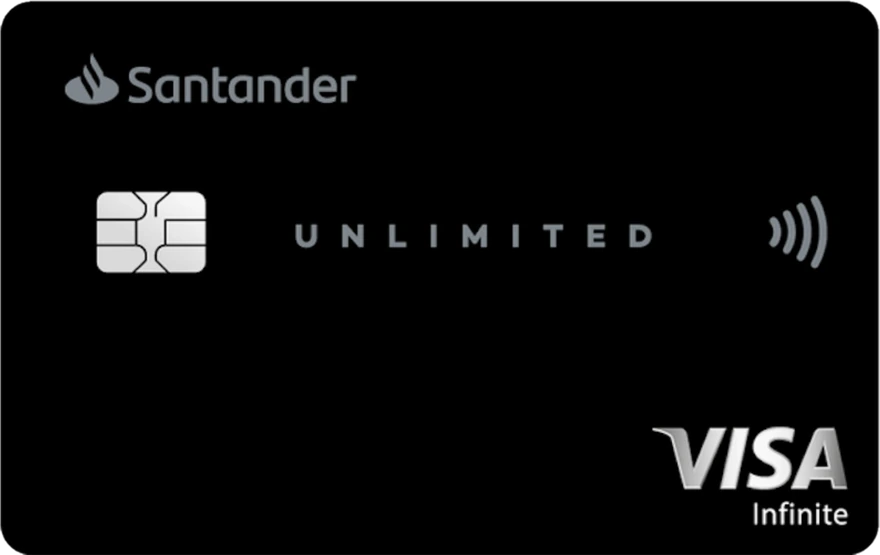
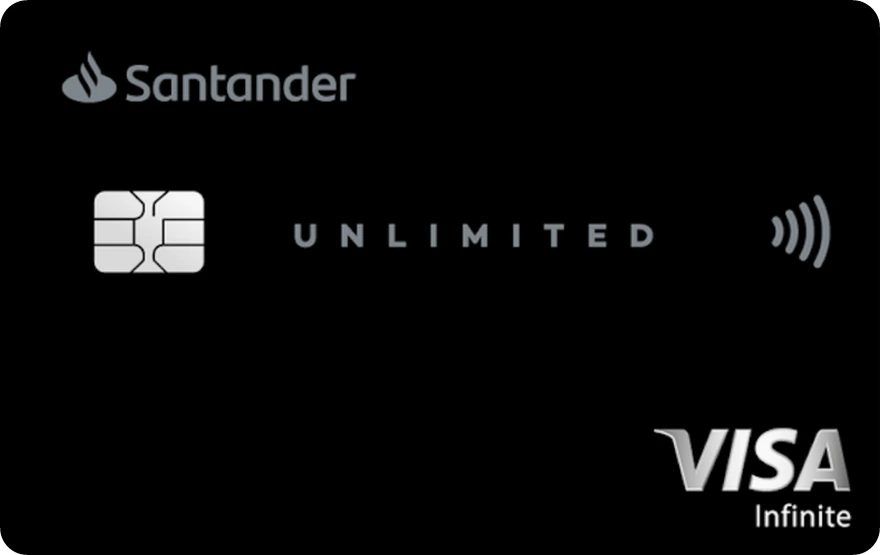
Add files via upload

diff --git a/index.html b/index.html
@@ -10,7 +10,7 @@
 <meta charset="utf-8">
 <script>
 /* abre direto na versão mais nova guardada no aparelho (o iPhone costuma servir a página antiga do cache) */
-(function(){var V='11.1';
+(function(){var V='11.3';
   function c(a,b){a=a.split('.');b=b.split('.');for(var i=0;i<3;i++){var x=+a[i]||0,y=+b[i]||0;if(x!==y)return x>y?1:-1}return 0}
   try{var v=localStorage.getItem('vencimentos.htmlv'),h=localStorage.getItem('vencimentos.html');
     if(v&&h&&c(v,V)>0&&h.indexOf("const VERSION='"+v+"'")>0){document.documentElement.style.visibility='hidden';setTimeout(function(){document.open();document.write(h);document.close()},0)}
@@ -563,7 +563,7 @@ body.so .tabs{backdrop-filter:none;-webkit-backdrop-filter:none}
       <div class="logo"><img data-mk alt=""></div>
       <h1>Sobrou<span class="ex">!</span></h1>
     </div>
-    <div class="hr"><span class="ver" id="ver">v11.1</span><span class="pill">Premium</span></div>
+    <div class="hr"><span class="ver" id="ver">v11.3</span><span class="pill">Premium</span></div>
   </header>
 
   <main>
@@ -663,7 +663,7 @@ body.so .tabs{backdrop-filter:none;-webkit-backdrop-filter:none}
 <script>
 (function(){
 'use strict';
-const VERSION='11.1';
+const VERSION='11.3';
 const KEY='vencimentos.v1';
 const $=(s,r=document)=>r.querySelector(s), $$=(s,r=document)=>[...r.querySelectorAll(s)];
 const esc=s=>String(s==null?'':s).replace(/[&<>"']/g,c=>({'&':'&amp;','<':'&lt;','>':'&gt;','"':'&quot;',"'":'&#39;'}[c]));
@@ -759,7 +759,7 @@ const LOGOS={"abril":"i-abril.webp","agora":"i-agora.webp","airbnb":"i-airbnb.we
 /* IV: só vira algo depois de "Limpar memória" (Ajustes): força baixar tudo de novo, como na 1ª vez */
 const IV=(()=>{try{return sessionStorage.getItem('imgv')||''}catch(e){return ''}})();
 const imgU=f=>IV?f+'?v='+IV:f;
-const IMGCACHE='cartoes-11';
+const IMGCACHE='cartoes-12';
 function logo(id){let v=LOGOS[id];if(v&&v.charAt(0)==='@')v=LOGOS[v.slice(1)];return /^i-[a-z0-9_-]+\.webp$/.test(v||'')?imgU(v):''}
 const ICOK={};
 function badge(p){

diff --git a/sw.js b/sw.js
@@ -3,7 +3,7 @@
    2) imagens dos cartões (c-*.webp) e dos ícones (i-*.webp) ficam guardadas;
    3) fontes do Google ficam guardadas.
    Se trocar uma imagem mantendo o mesmo nome, aumente o número em IMG (e IMGCACHE no index.html). */
-const IMG='cartoes-11', APP='app-1', FONT='fontes-1';
+const IMG='cartoes-12', APP='app-1', FONT='fontes-1';
 const INDEX=new URL('index.html',self.registration.scope).href;
 
 self.addEventListener('install',e=>{
